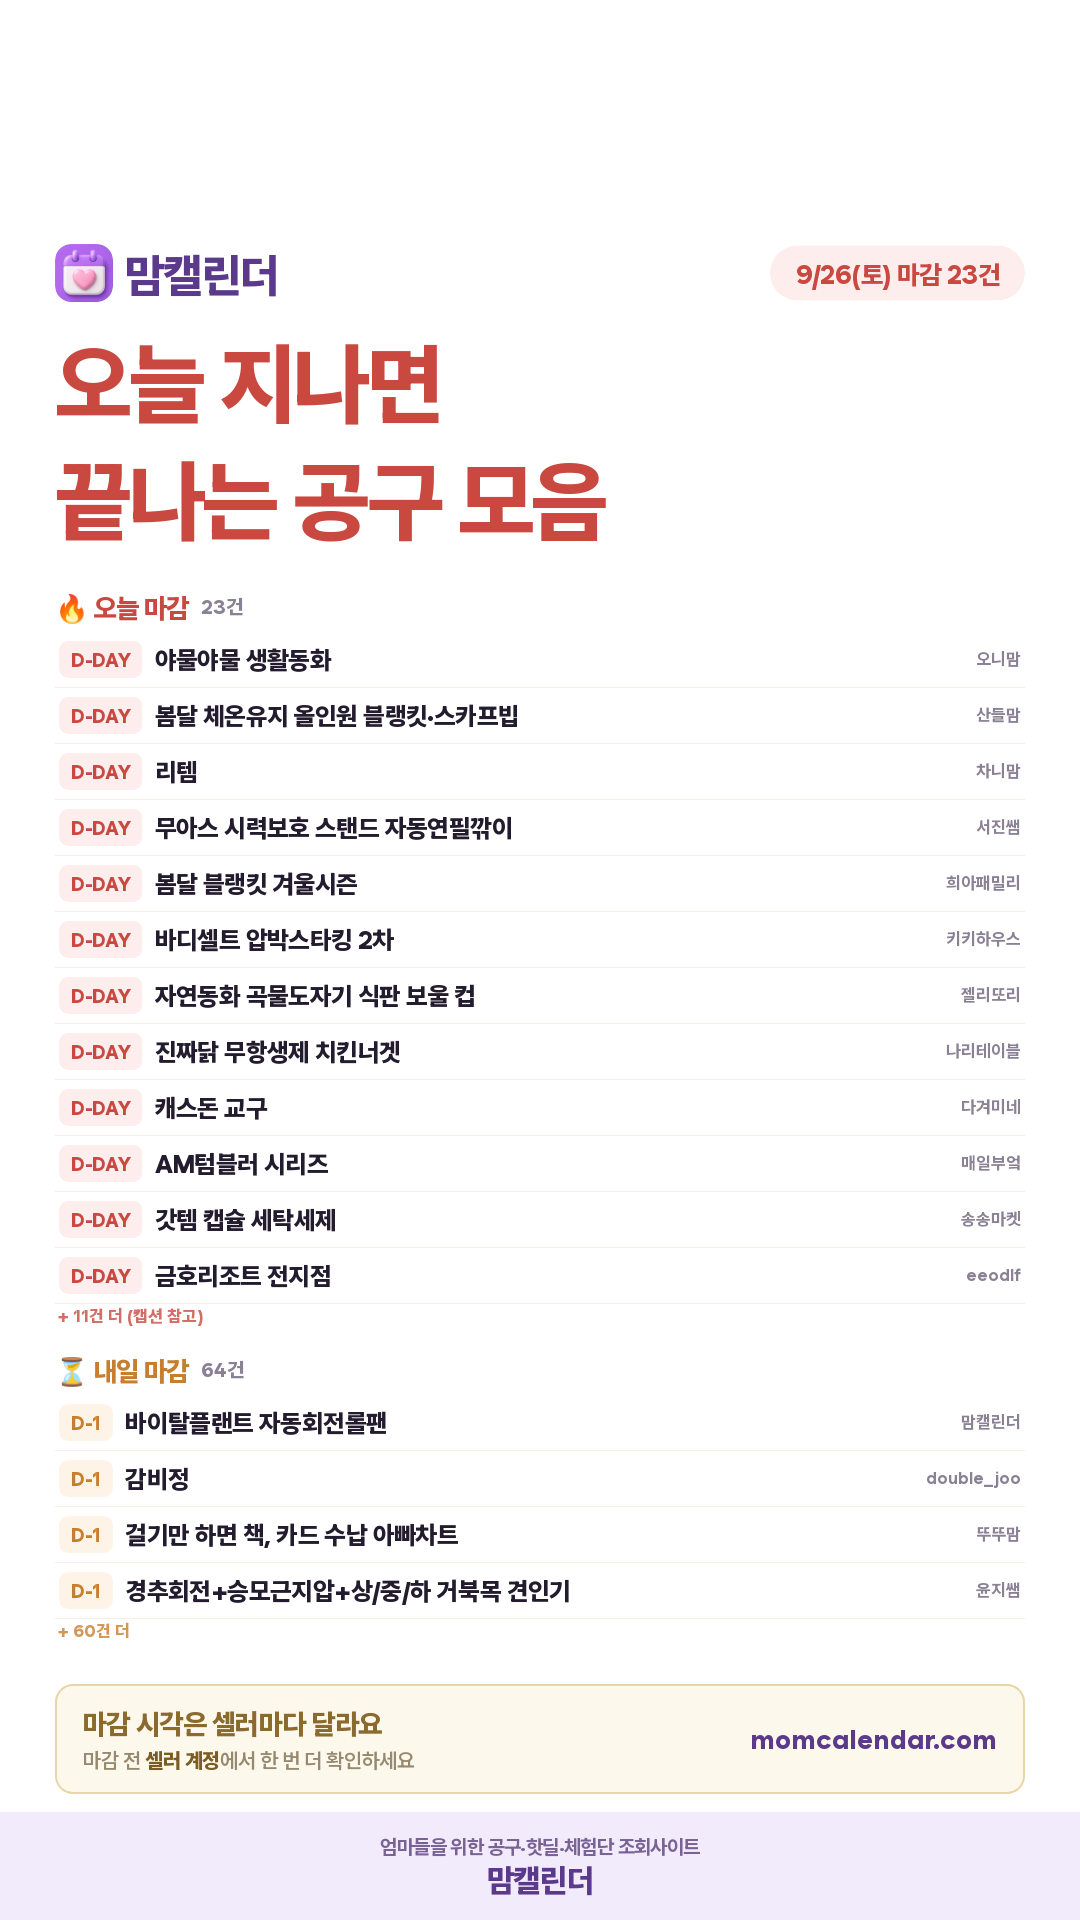
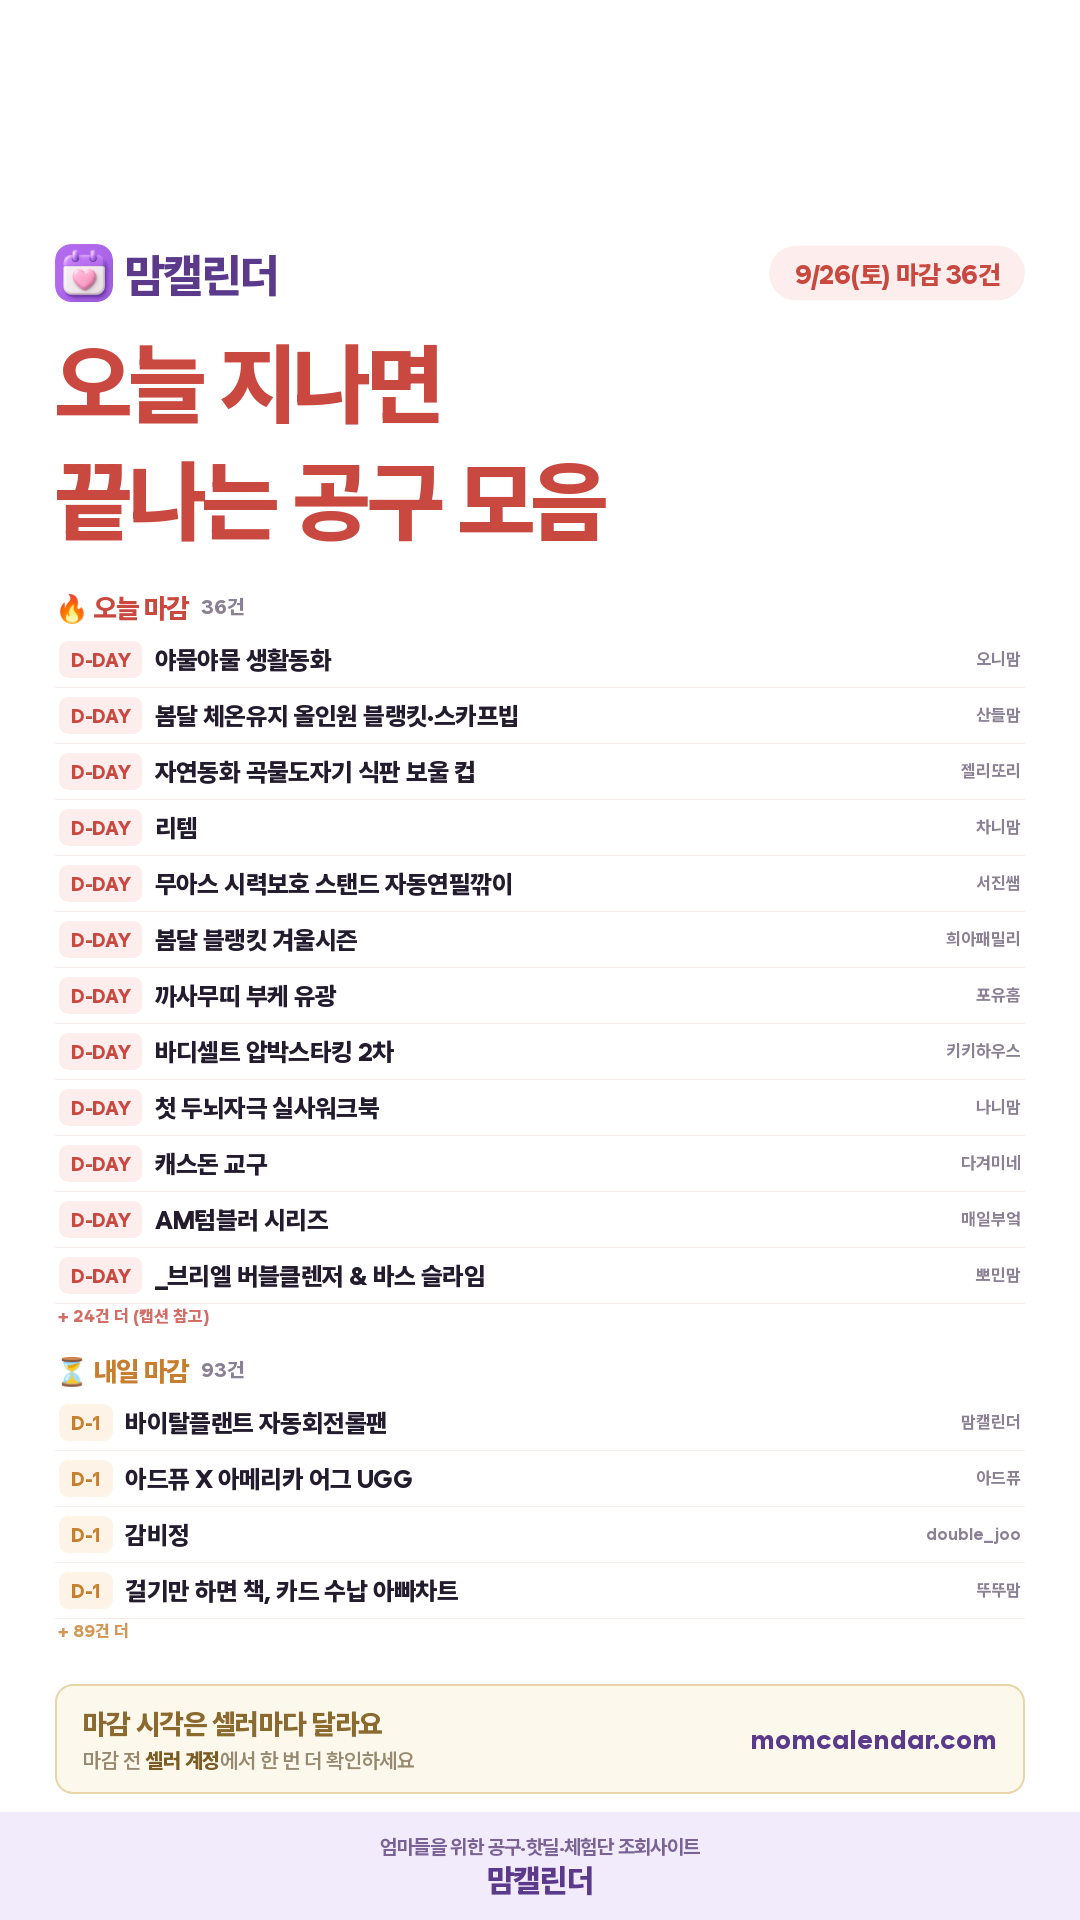
아침 인스타 카드 (2026-09-26)

diff --git a/daily/2026-09-26.html b/daily/2026-09-26.html
@@ -19,7 +19,7 @@ textarea{width:100%;height:260px;border:1px solid #E3DCEF;border-radius:10px;pad
 .todo p{font-size:12.5px;color:#6B6379;line-height:1.75;margin-top:6px}
 .todo a{color:#5B2E8C;font-weight:700}
 </style></head><body>
-<div class="hd"><div class="wrap"><h1>9월 26일(토) 인스타 카드</h1><p>마감임박 · today 23 · tomo 64</p></div></div>
+<div class="hd"><div class="wrap"><h1>9월 26일(토) 인스타 카드</h1><p>마감임박 · today 36 · tomo 93</p></div></div>
 <div class="wrap">
   
   <div class="card"><img src="./2026-09-26.png" alt="오늘 공구 카드"></div>
@@ -27,54 +27,80 @@ textarea{width:100%;height:260px;border:1px solid #E3DCEF;border-radius:10px;pad
   <div class="card">
     <textarea id="cap" readonly>망설이던 공구 있다면 오늘이 마지막이에요
 
-⏰ 9월 26일 마감 23건 · 내일 마감 64건
+⏰ 9월 26일 마감 36건 · 내일 마감 93건
 
 ━━━━━━━━━━━━━━
 
 🔥 오늘 마감
 · 야물야물 생활동화 — 오니맘
 · 봄달 체온유지 올인원 블랭킷·스카프빕 — 산들맘
+· 자연동화 곡물도자기 식판 보울 컵 — 젤리또리
 · 리템 — 차니맘
 · 무아스 시력보호 스탠드 자동연필깎이 — 서진쌤
 · 봄달 블랭킷 겨울시즌 — 희아패밀리
+· 까사무띠 부케 유광 — 포유홈
 · 바디셀트 압박스타킹 2차 — 키키하우스
-· 자연동화 곡물도자기 식판 보울 컵 — 젤리또리
-· 진짜닭 무항생제 치킨너겟 — 나리테이블
+· 첫 두뇌자극 실사워크북 — 나니맘
 · 캐스돈 교구 — 다겨미네
 · AM텀블러 시리즈 — 매일부엌
+· _브리엘 버블클렌저 &amp; 바스 슬라임 — 뽀민맘
 · 갓템 캡슐 세탁세제 — 송송마켓
+· 그리스로마신화 — 하이네
 · 금호리조트 전지점 — eeodlf
 · 루솔 이유식 — 뽀물맘
 · 모비타 롱비다 커큐민 — 뷰약사
 · 미니 반지갑 — 레 니
+· 베베데코 올핏 — 부끄
 · 베어블리 자석블럭 — 해피엘
 · 비판텐 — 태리하루
+· 스미노도마 — 밥좀주이서
 · 쏘랩 식탁 — 김주애
 · 엔그로운 원목 독서대 — 캔디맘
+· 웅진 오브레인 영아 도서 — 오늘도 육아 공구
+· 유아식원조 탁가온 총판 — 또니맘
 · 은하수 세계명작 — 류둥이네
 · 저스트글로우 베르베린 어드밴스드 550mg — 뵤리약사
 · 제왕 힐텀겔시트 — 뚝딱맘
-· 첫 두뇌자극 실사워크북 — 나니맘
+· 진짜닭 무항생제 치킨너겟 — 나리테이블
+· 찬찬히방앗간 참기름 &amp; 생들기름 — 비니맘마
+· 컨알해 식기 모음전 — 도하세하네
+· 퀵드라이펜 — ddok.ping
+· 폴쿠치나 아이스 푸드블럭 &amp; 스파츌라 4종 — 에루홈
+· 풀꽃선생님의 뻔한 표현 탈출 사전 — 유주맘(윤예진)
+· 픽토리 — 진솔맘
 
 ⏳ 내일(9/27) 마감
 · 바이탈플랜트 자동회전롤팬 — 맘캘린더 @momcal_
+· 아드퓨 X 아메리카 어그 UGG — 아드퓨 @atelier.de.purete
 · 감비정 — double_joo
 · 걸기만 하면 책, 카드 수납 아빠차트 — 뚜뚜맘
+· 경이로운 팝업북 3종 — 우니동동
 · 경추회전+승모근지압+상/중/하 거북목 견인기 — 윤지쌤
 · 곰보배추시럽 — 러블리맘
+· 공룡 대발이 생활동화 — 리틀혀니
+· 국민필터 신발 세탁망 — 하봄
 · 길쭉이 수납장 — 히히스카이라운지
+· 꼼베베 가을신상 — 열무맘
 · 꿈비 리코코 클립매트 — 모건맘김규콩
 · 넘버블록스 빅북 모음전 — 미소데이즈
 · 노히아 언더웨어 — 라두나
 · 다이치 원픽스 시즌3 에어 — 영통 베이비하우스
 · 담백하루 유산균 ABC — 샤인약사
+· 데코아르 에어건 — 시크드
 · 도조메 비쉬 체크나이프 — 맘이가요
 · 돌잡이 &amp; 빅키즈 — 송엘라
 · 돌잡이시리즈 — 유림
+· 디어커스 더스트라 크리너 — 마리에뜰
+· 또바기 10권 1만원대｜3종 — 수니점빵
 · 똑서 독서대 — 종달맘
+· 라꽁비에뜨 무염&amp;가염버터 — 또후니맘
+· 로마 유기농 비건 샴푸&amp;린스 — 묘약사
 · 리큅 식품건조기 3차 — 묘식당
 · 리틀피기 가을 신상 런칭 — 두둥맘
 · 맛있는 불지 않는 잡채 — 꿀동이
+· 매트싹싹 — 홈앤홈
+· 모션쇼파 2차 — 수지살림
+· 목초우 미틀리 비프칩, 유기농 파오리 — 하람
 · 몬테소리 의자 — 미국이맘
 · 미야리산U 낙산균 — 달달콩
 · 바르너 EMS 미니스팟 — 사니엘블랑
@@ -85,40 +111,10 @@ textarea{width:100%;height:260px;border:1px solid #E3DCEF;border-radius:10px;pad
 · 베키고구마 — 베키
 · 벨르썸 라치우드 도마 — 투찬이네
 · 브리테니커 호기심백과 — 명희홈쿡
+· 비릴리가 초임계오메가3 — 위키약사
 · 비지베어 A B세트 — 누누맘
 · 비타바움 8차 — 심플리레시피
-· 빌베리 엘더베리 — 우리약사
-· 뼈 육수 — 푸드리셋
-· 샤크 LC351청소기 — 밀커블
-· 세이톡·세이펜 — 도치맘
-· 슈메르 아기양말 — 선유맘
-· 스타우브 B품 — 리본홈
-· 스파톤 철분제 — 로제맘
-· 승천냉면 3차 — 우연
-· 심플리티 2in1 킥보드 — 또마맘
-· 씨밀렉스 래폴드 수납함 — 디유
-· 아넬라 퓨레 — 건이맘
-· 아티바바 실리콘블럭 전제품 — 김밀키
-· 어그 — 벨리맘
-· 에디슨 원터치 텀블러 — 아토네
-· 엔에프락 — 아무르제이
-· 엔오르 29CM 가을 쇼케이스 — 킴제
-· 옴모 크레용 3차 — 맘조이
-· 워셔블 러그 — 카루셀리
-· 으뜸 배변패드 — 개엄마
-· 이스니 바이타밈 — 민들레
-· 점프업 키즈 아르기닌 — 베이지약사
-· 주니 기저귀팬티 — 애프리
-· 주니 안전용품 모음전 — 모찌맘
-· 쥬비렉스 아이백 리프트 샷 크림 — 하이킴약사
-· 책상정리템&amp;학습트롤리 아이방 수납 기획전 — 도다미네
-· 추피의 생활이야기 한글판 — 서점맘
-· 키머즈 캐리어 — 둥이맘앨리
-· 트로마츠 미세전류 칫솔 — 엄마로라
-· 트리플쿨링 마그네슘 — 도비약사
-· 파스텔버블 고쟁이 후드 셋업 — 도아네
-· 푸꾸옥 4대 호텔 프로젝트 — 준성담
-…외 3건
+…외 49건
 
 
 ━━━━━━━━━━━━━━
@@ -139,12 +135,12 @@ textarea{width:100%;height:260px;border:1px solid #E3DCEF;border-radius:10px;pad
 ⚠ 공구 일정은 판매자 사정에 따라 변경·조기마감될 수 있어요.
 
 #맘캘린더 #공구일정 #육아공구 #9월26일공구 #육아일상 #공동구매 #놀잇감 #교구 #육아정보 #아기간식 #신학기준비 #책육아</textarea>
-    <div class="meta">2162자</div>
+    <div class="meta">2168자</div>
     <button class="btn btn2" onclick="cp('cap','캡션')">캡션 복사</button>
   </div>
   <div class="card">
     <div class="meta" style="margin:0 0 8px;font-weight:800;color:#5B2E8C">네이버 블로그용 (blog.naver.com/momcal) — 수정해서 쓰셔도 돼요</div>
-    <textarea id="btitle" style="height:54px">9월 26일(토) 공구일정 총정리 | 닥터핏 유산균·혈당컷·엔에프락·큐라이프·링글스·작심랩 공구 오픈</textarea>
+    <textarea id="btitle" style="height:54px">9월 26일(토) 공구일정 총정리 | 닥터핏 유산균·리셋3종·혈당컷·렌가드·엔에프락·큐라이프 공구 오픈</textarea>
     <button class="btn btn2" onclick="cp('btitle','블로그 제목')">블로그 제목 복사</button>
     <textarea id="bbody" style="margin-top:9px">
 
@@ -171,57 +167,78 @@ https://open.kakao.com/o/gr2kJhCh
 
 ─────────────
 
-9월 26일(토), 오늘 새로 오픈하는 인스타 공구일정 7건을 카테고리별로 정리했어요.
-오늘 끝나는 공구가 24건이라 아래쪽도 같이 확인해 보세요.
+9월 26일(토), 오늘 새로 오픈하는 인스타 공구일정 12건을 카테고리별로 정리했어요.
+오늘 끝나는 공구가 38건이라 아래쪽도 같이 확인해 보세요.
 
-■ 오늘까지인 공구 24건
+■ 오늘까지인 공구 38건
+· _브리엘 버블클렌저 &amp; 바스 슬라임 — 뽀민맘
 · AM텀블러 시리즈 — 매일부엌
 · 갓템 캡슐 세탁세제 — 송송마켓
+· 그리스로마신화 — 하이네
 · 금호리조트 전지점 — eeodlf
+· 까사무띠 부케 유광 — 포유홈
 · 루솔 이유식 — 뽀물맘
 · 리템 — 차니맘
 · 모비타 롱비다 커큐민 — 뷰약사
 · 무아스 시력보호 스탠드 자동연필깎이 — 서진쌤
 · 미니 반지갑 — 레 니
 · 바디셀트 압박스타킹 2차 — 키키하우스
+· 베베데코 올핏 — 부끄
 · 베어블리 자석블럭 — 해피엘
-· 봄달 블랭킷 겨울시즌 — 희아
 · 봄달 블랭킷 겨울시즌 — 희아패밀리
+· 봄달 블랭킷 겨울시즌 — 희아
 · 봄달 체온유지 올인원 블랭킷·스카프빕 — 산들맘
 · 비판텐 — 태리하루
+· 스미노도마 — 밥좀주이서
 · 쏘랩 식탁 — 김주애
+· 야물야물 — 씽맘
 · 야물야물 생활동화 — 오니맘
 · 엔그로운 원목 독서대 — 캔디맘
+· 웅진 오브레인 영아 도서 — 오늘도 육아 공구
+· 유아식원조 탁가온 총판 — 또니맘
 · 은하수 세계명작 — 류둥이네
 · 자연동화 곡물도자기 식판 보울 컵 — 젤리또리
 · 저스트글로우 베르베린 어드밴스드 550mg — 뵤리약사
 · 제왕 힐텀겔시트 — 뚝딱맘
 · 진짜닭 무항생제 치킨너겟 — 나리테이블
+· 찬찬히방앗간 참기름 &amp; 생들기름 — 비니맘마
 · 첫 두뇌자극 실사워크북 — 나니맘
 · 캐스돈 교구 — 다겨미네
+· 컨알해 식기 모음전 — 도하세하네
+· 퀵드라이펜 — ddok.ping
+· 폴쿠치나 아이스 푸드블럭 &amp; 스파츌라 4종 — 에루홈
+· 풀꽃선생님의 뻔한 표현 탈출 사전 — 유주맘(윤예진)
+· 픽토리 — 진솔맘
 
-■ 오늘 새로 열리는 공구 7건
+■ 오늘 새로 열리는 공구 12건
 
 [육아]
 · 빅 네임스티커 — 럭키마미 (~9/29 마감)
+· 알파카 퍼스트 킥보드 — 축복맘 (~9/29 마감)
 
 [리빙]
+· 렌가드 시스템 후드 필터 — 지니홈 이진영 (~9/29 마감)
 · 엔에프락 밀폐용기 — 그루비슬 (~9/29 마감)
 
 [식품]
 · 링글스 클렌즈 6차 마켓 — 미블리 (~9/28 마감)
+· 어썸 칼마디K2 젤리스틱 플러스 — 남약사 (~10/2 마감)
 · 작심랩 콤부차 — 태브로맘 (~9/29 마감)
 
 [건강]
 · 닥터핏 유산균 혈당케어 — 매일부엌 (~9/29 마감)
+· 리셋3종 — ellie_youngok (~9/29 마감)
 · 혈당컷 — 부끄 (~10/1 마감)
 
 [뷰티]
 · 큐라이프 천연치유에센스 — 제제로운건강생활 (~10/2 마감)
 
+[패션]
+· 호주 정품 어그 — 레이첼꽁 (~9/29 마감)
+
 ※ 수량이 빨리 소진되면 예정보다 일찍 닫히기도 해요. 관심 있는 공구는 오픈일에 바로 확인하시는 게 좋아요.
 
-#공구일정 #인스타공구 #인스타공구일정 #공동구매 #오늘의공구 #육아공구 #육아템 #공구모음 #닥터핏공구 #혈당컷공구 #엔에프락공구 #큐라이프공구 #링글스공구 #작심랩공구</textarea>
+#공구일정 #인스타공구 #인스타공구일정 #공동구매 #오늘의공구 #육아공구 #육아템 #공구모음 #닥터핏공구 #리셋3종공구 #혈당컷공구 #렌가드공구 #엔에프락공구 #큐라이프공구 #링글스공구 #어썸공구</textarea>
     <button class="btn" onclick="cp('bbody','블로그 본문 전체')">블로그 본문 전체 복사 (태그 포함)</button>
     <div class="meta">순서: 사진 저장 → 블로그 앱 글쓰기 → 제목 붙여넣기 → 본문 붙여넣기 → 본문 맨 위에 사진 추가 → 발행. 끝의 #태그들은 자동으로 태그가 돼요</div>
   </div>

diff --git a/daily/today.html b/daily/today.html
@@ -1,15 +1,15 @@
 <!DOCTYPE html><html lang="ko"><head>
 <meta charset="UTF-8"><meta name="viewport" content="width=device-width,initial-scale=1">
 <meta name="robots" content="noindex,nofollow">
-<title>9/25(금) 오늘 공구 캘린더</title>
-<meta property="og:title" content="9/25(금) 오늘 공구 캘린더">
-<meta property="og:image" content="https://momcalendar.com/daily/today.png?v=2026-09-25">
+<title>9/26(토) 오늘 공구 캘린더</title>
+<meta property="og:title" content="9/26(토) 오늘 공구 캘린더">
+<meta property="og:image" content="https://momcalendar.com/daily/today.png?v=2026-09-26">
 <style>body{margin:0;background:#F6F4F9;font-family:-apple-system,BlinkMacSystemFont,'Apple SD Gothic Neo','Malgun Gothic',sans-serif;text-align:center}
 h1{font-size:17px;color:#4A1A78;padding:14px 0 10px;margin:0}
 img{width:100%;max-width:540px;display:block;margin:0 auto;border-radius:12px;box-shadow:0 2px 12px rgba(96,32,144,.12)}
 p{font-size:12.5px;color:#8A8A8A;padding:12px}</style></head><body>
 <p style="margin:0;padding:10px 14px;background:#FFE9E9;color:#B3261E;font-size:13px;font-weight:700;line-height:1.5">⚠ 🔴 사이트 오류 레이더 1건: 우회로 중 서버5xx 1h 0·24h 2 — 세션에서 select * from error_radar()</p>
-<h1>9/25(금) 오늘 공구 캘린더</h1>
-<img src="./today.png?v=1790297217681" alt="9/25(금) 오늘 공구 캘린더">
+<h1>9/26(토) 오늘 공구 캘린더</h1>
+<img src="./today.png?v=1790383894472" alt="9/26(토) 오늘 공구 캘린더">
 <p>매일 아침 자동으로 새로 그려집니다 · <a href="https://momcalendar.com">맘캘린더</a></p>
 </body></html>

diff --git a/daily/index.html b/daily/index.html
@@ -1,1 +1,1 @@
-<!DOCTYPE html><meta charset="UTF-8"><meta http-equiv="refresh" content="0;url=./2026-09-25.html">
+<!DOCTYPE html><meta charset="UTF-8"><meta http-equiv="refresh" content="0;url=./2026-09-26.html">
